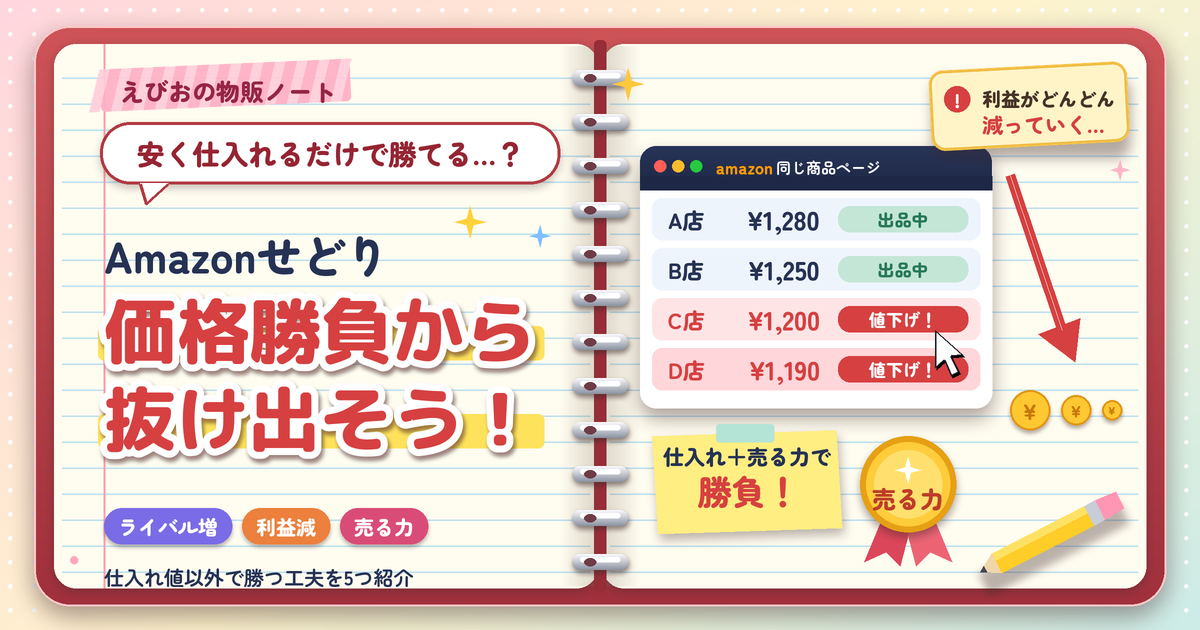
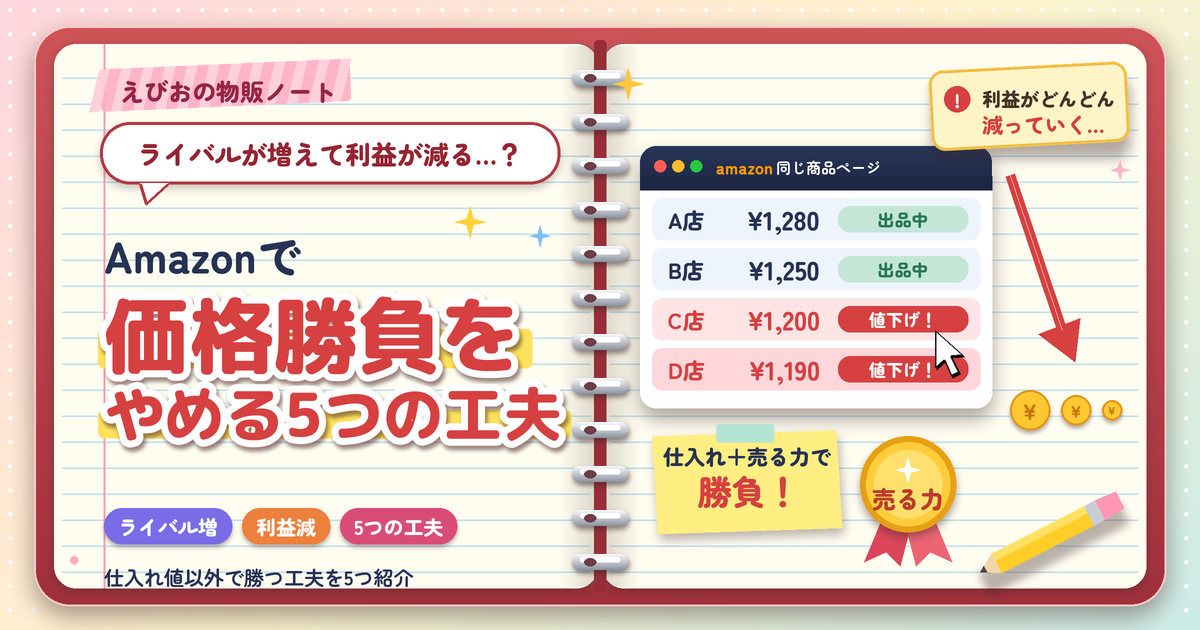
shiire-igai-shoubu：タイトルを案3に、アイキャッチの文字を合わせた
Claude-Session: https://claude.ai/code/session_01LwpR6169rUeX1Pap5HRmNC

Changed region(s): [[0.0617, 0.3619, 0.4933, 0.754], [0.0925, 0.2111, 0.4317, 0.2714], [0.2775, 0.7841, 0.4008, 0.8746]]

diff --git a/neta.md b/neta.md
@@ -131,4 +131,4 @@
 下・Amazonの使わないSKUは消そう！出品していないSKUに知財・サプリの書類・薬機法・真贋調査の通知が来る（2026/11/11 下書き：2023番。スラッグ sku-sakujo。えびおの体験：電化製品なのに食品の法律の通知が来た。プライスターから元のSKUを復活できる。消し方の画面名・プライスターの復活手順・電化製品の通知の中身・健全性への影響・FBA在庫がある場合は【要確認】。ネットで「消さずにひどい目にあった事例」を探したが、はっきりした事例が見つからなかったので入れていない。サプリ書類の下書き1867番を公開したら、この記事からリンクを張る。アイキャッチは緑の見開きノート。2026/11/12 WordPressでは下書きのまま（投稿者はclaude）なので「済」を「下」に直した）
 済・「アカウント停止」のメールが偽物だなんて！ブラックフライデー前にせどらーを狙う偽メールに注意（2026/11/12 アプリ版で下書き：2034番。スラッグ nise-mail-chuui。投稿者えびお。2026/10/26・11/02・11/09 の週次調査の偽メールの候補（Prime料金・楽天アカウント保護アプリ・Amazon停止のお知らせ・本日到着予定／お受け取り方法）をまとめて1本にした。例はsbapp.net・詐欺ナビ・フィッシングJP・電気通信大学・NOVAIST（ドコモ公式マーク）で確かめた。見分け方は「リンクから入らず公式アプリ・ブックマークから確かめる」、開いてしまったときの対処法つき。2026/11/12 えびおの話で要確認2つを埋めた（偽メールはしょっちゅう届くがもう開かない・大切な通知はセラーセントラルに入るとすぐ表示されるのでそこで見る・メールを開いてもリンクからは入らず、セラーセントラルに入り直して見直すのを徹底）。要確認は0。アイキャッチは青い見開きノート（受信トレイの絵）。えびおのOKをもらって設定（メディア2035番）、代替テキストに画像の文字を入れた。公開済み：https://iseebio.jp/nise-mail-chuui/（2026/11/12 公開））
 済・最安値なのにカートが取れない！Amazonのカートの仕組みに公取委が待った（2026/11/12 下書き：2039番。スラッグ amazon-cart-koutorii。2026/11/11 に公取委がアマゾンジャパンの確約計画を認定したニュース（えびおが Yahoo!ニュースで見つけた）から。2019年9月から「他サイトの最安値」を基準におすすめ出品の資格を決めていた、おすすめ出品がなくてもAmazon内の最安出品（送料込み）を表示してボタンをつける、5年間監視、違反の認定ではない、などは検索結果の報道（時事・ネットショップ担当者フォーラム・日本ネット経済新聞・NOVAIST・MLex など）で確認。公取委・Yahoo!・時事のページはクラウド版から開けなかった。えびおの話：同じ条件より悪い人がカートを取る、カートがいきなり消える、1,500円より下の商品でえびおが最安値なのに8,000〜9,000円くらいのふるさと納税の返礼品がカートを取っていた、これを機に変わってほしい。要確認：表示が変わる時期（海外報道は6か月以内）、「他サイトより安く」の条件が完全になくなるか、選び方そのものが変わるか、カートが消えたときの体験。あわせて読みたいで /amazon-cart-jouken/ にリンク。アイキャッチはオレンジの見開きノート（商品ページとカートの絵）。タイトルはひとまず1案目。2026/11/12 アプリ版で仕上げ：アイキャッチ（オレンジの見開きノート）をえびおのOKをもらって設定（メディア2041番）、代替テキストに画像の文字を入れた。投稿者えびお。プレビューで見た目を確認。要確認4つは残したまま。同じ日にえびおの指示で、要確認3つを公取委の発表（2026/11/11 確約計画の認定）と時事通信で埋めた：表示が変わる時期は公取委の発表に日にちがなく、時事は「半年以内」（2027年5月ごろまで）。「他サイトの最安値以下」でおすすめ出品になる条件そのものをやめるとは公取委の発表に書かれておらず、変わるのは条件を満たす出品者がいないときにAmazon内の最安出品にボタンがつくところ（レベル4の文を「カートがなくても、Amazonで一番安い出品は表示される！」に、2つ目の小見出しを「他のサイトより高くても、まったく表示されないことはなくなる」に直した）。カートの選び方（条件を満たした中から配送条件などで選ぶ）は今回の約束に入っていない。続けてえびおの話で最後の要確認を埋めた（カートが消えると売れ行きはものすごく落ち、感覚では半分以下。カートを取れてなんぼで、お客さんの見え方も全然違う。値段を下げて取れるならいいが、下げても戻らない商品も多く、やりようがない）。前の段落「値段を下げるくらいしか手がない」は「何を直せばいいのか分からない」に直して、体験のあとに並べ替えた。要確認は0。同じ日にえびおの指示で、商品の値段を「500円より下」から「1,500円より下」に直した（本文2か所）。えびおの指示で 2026/11/13 0:01 に予約公開を設定（公開予定：https://iseebio.jp/amazon-cart-koutorii/）。公開されたら「済」に直す。公開済み：https://iseebio.jp/amazon-cart-koutorii/（2026/11/13 0:01 公開））
-下・Amazonは安く仕入れるだけでは厳しい！価格勝負から抜け出して「売る力」をつける5つの工夫（2026/11/14 クラウド版で下書き：2053番。スラッグ shiire-igai-shoubu。えびおの話（安く仕入れるのは一番大事だが、ライバルが増えて仕入れ値で差がつかず、価格勝負でお互いの利益が減る・Amazonは相乗りが基本で楽天やYahoo!と違って仕入れ値以外で勝負しにくい・それでも工夫して「売る力」をつけたい）をもとに書いた。5つの工夫：①最安値を追いかけ続けない ②配送・在庫・評価など値段以外の選ばれる理由 ③出品規制の解除などライバルの少ない商品 ④ノーブランドのセット品で相乗りから抜け出す ⑤他のお店でも売る。あわせて読みたいは amazon-cart-jouken・jiko-shuppin・shuppin-kisei-kaijo・nobrand-set・tahanro。タイトルはひとまず1案目。要確認3つ（すべてえびおの体験：ライバルが増えて値下げ合戦になった商品／プライスターの下げる限界の決め方／Amazonでは売れないのにほかのお店で売れた商品）。アイキャッチはえんじ色の見開きノート（同じ商品ページに並ぶ値下げ中の出品者・利益が減る札・売る力のメダル）。画像は posts に置いた。アイキャッチ設定と投稿者えびおはアプリ版で）
+下・Amazonは安く仕入れるだけでは厳しい！価格勝負から抜け出して「売る力」をつける5つの工夫（2026/11/14 クラウド版で下書き：2053番。スラッグ shiire-igai-shoubu。えびおの話（安く仕入れるのは一番大事だが、ライバルが増えて仕入れ値で差がつかず、価格勝負でお互いの利益が減る・Amazonは相乗りが基本で楽天やYahoo!と違って仕入れ値以外で勝負しにくい・それでも工夫して「売る力」をつけたい）をもとに書いた。5つの工夫：①最安値を追いかけ続けない ②配送・在庫・評価など値段以外の選ばれる理由 ③出品規制の解除などライバルの少ない商品 ④ノーブランドのセット品で相乗りから抜け出す ⑤他のお店でも売る。あわせて読みたいは amazon-cart-jouken・jiko-shuppin・shuppin-kisei-kaijo・nobrand-set・tahanro。タイトルは案3に決定（2026/11/14 えびおの指示。アイキャッチの文字も案3に合わせて作り直した）。要確認3つ（すべてえびおの体験：ライバルが増えて値下げ合戦になった商品／プライスターの下げる限界の決め方／Amazonでは売れないのにほかのお店で売れた商品）。アイキャッチはえんじ色の見開きノート「価格勝負をやめる5つの工夫」（同じ商品ページに並ぶ値下げ中の出品者・利益が減る札・売る力のメダル）。画像は posts に置いた。アイキャッチ設定と投稿者えびおはアプリ版で）
